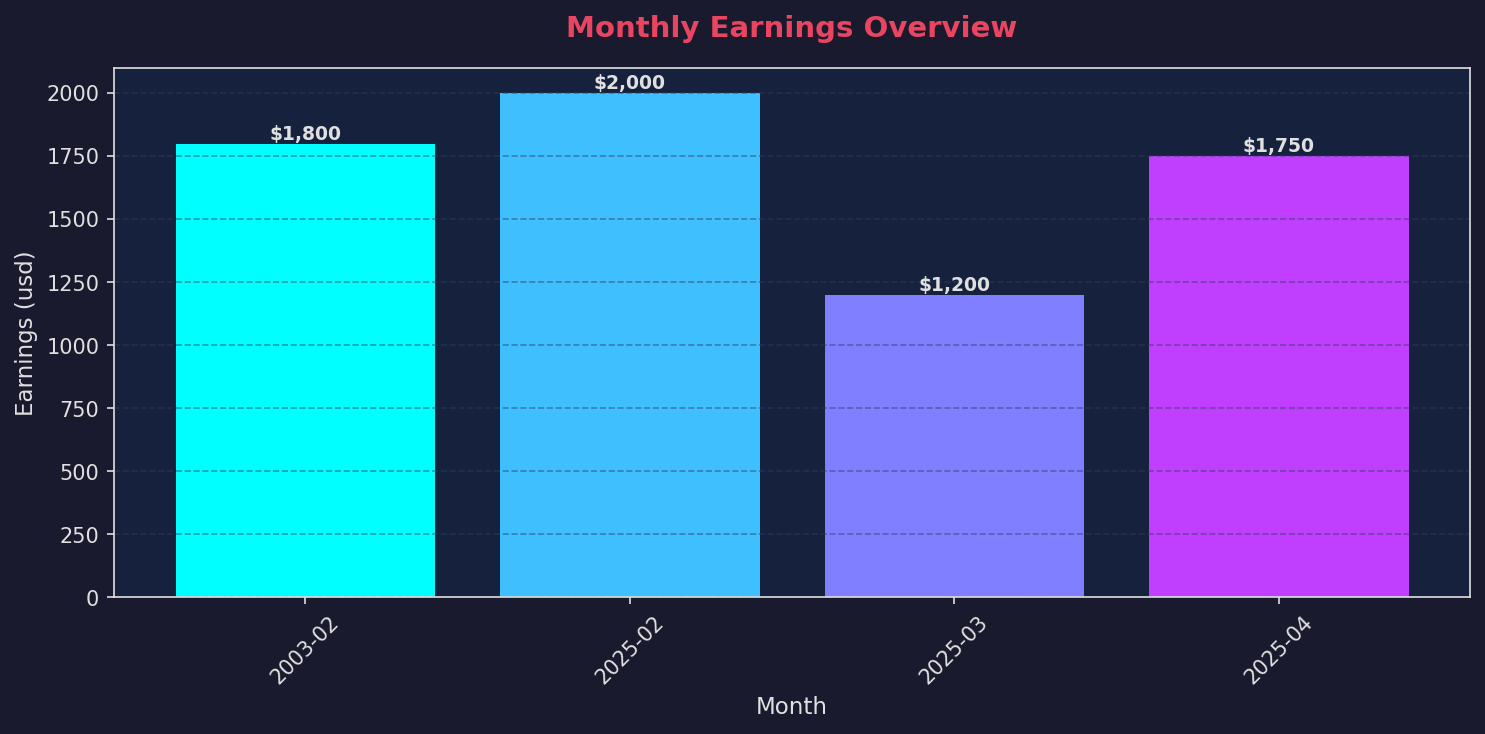
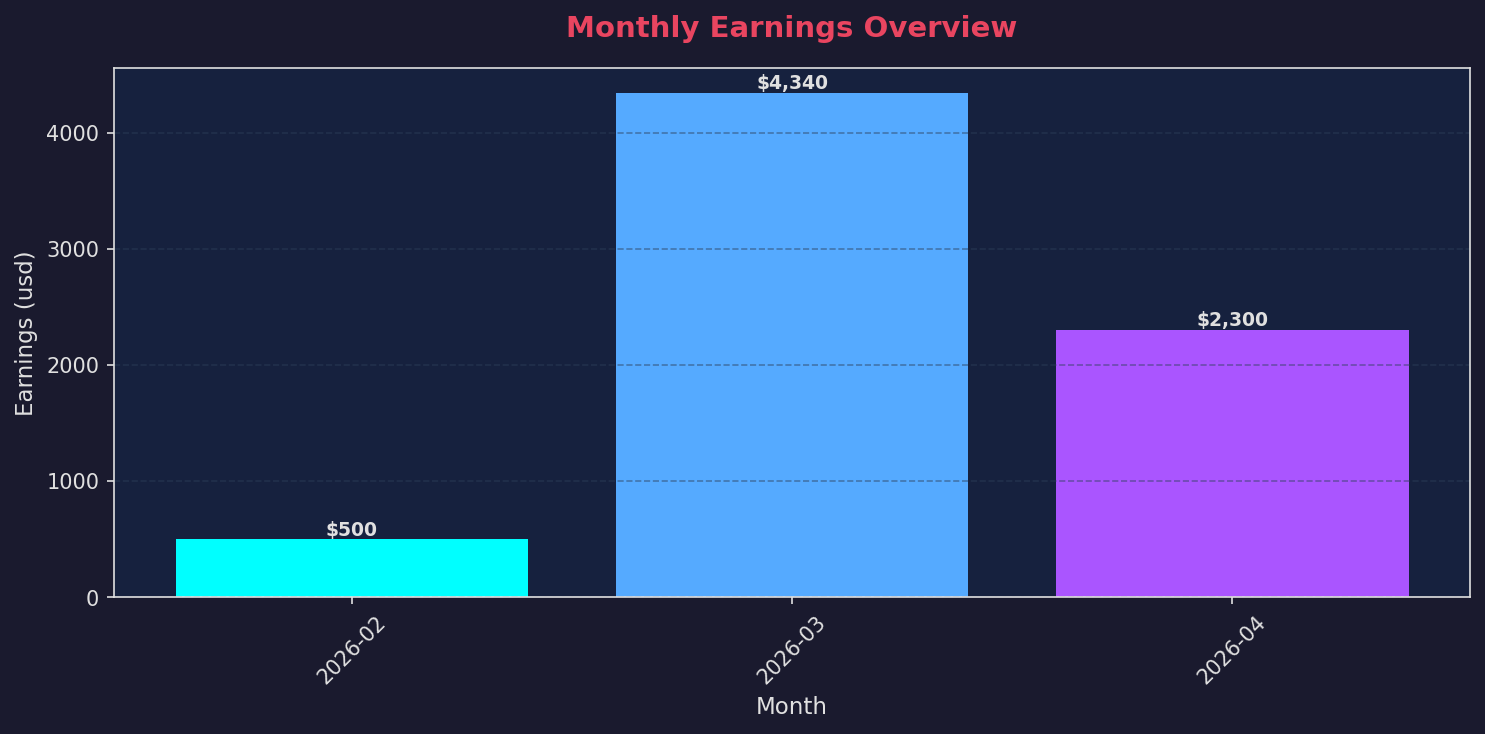
Final Version

diff --git a/README.md b/README.md
@@ -36,7 +36,7 @@ SMTP_FROM_NAME=Your Name
 SMTP_FROM_EMAIL=[email redacted]
 ```
 
-> **Note for Gmail users:** A regular Gmail password will not work. You must create an [App Password](https://myaccount.google.com/apppasswords) (2-Step Verification must be enabled).
+> **For Gmail users:** A regular Gmail password will not work. You must create an [App Password](https://myaccount.google.com/apppasswords) (2-Step Verification must be enabled).
 
 > The `.env` file is gitignored — never commit it to a public repo. Use `.env.example` as a shareable template.
 